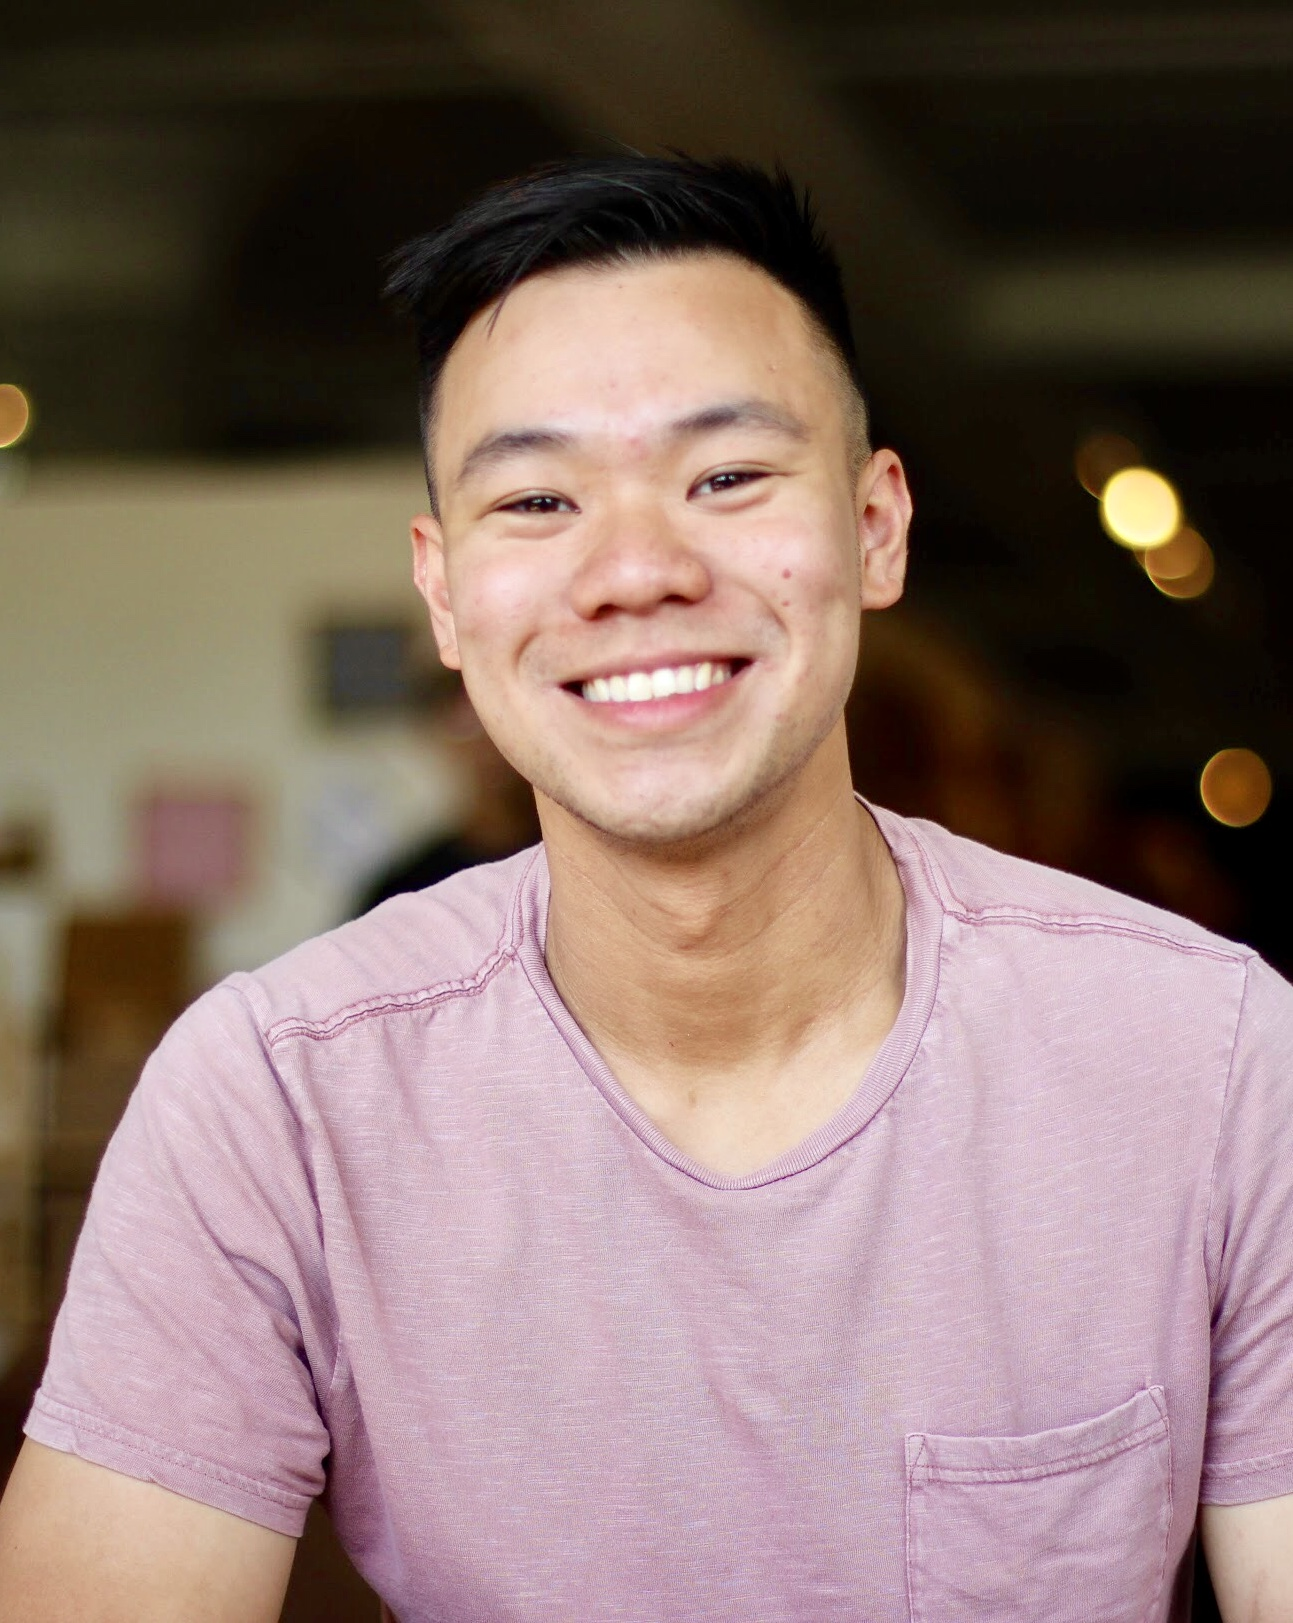
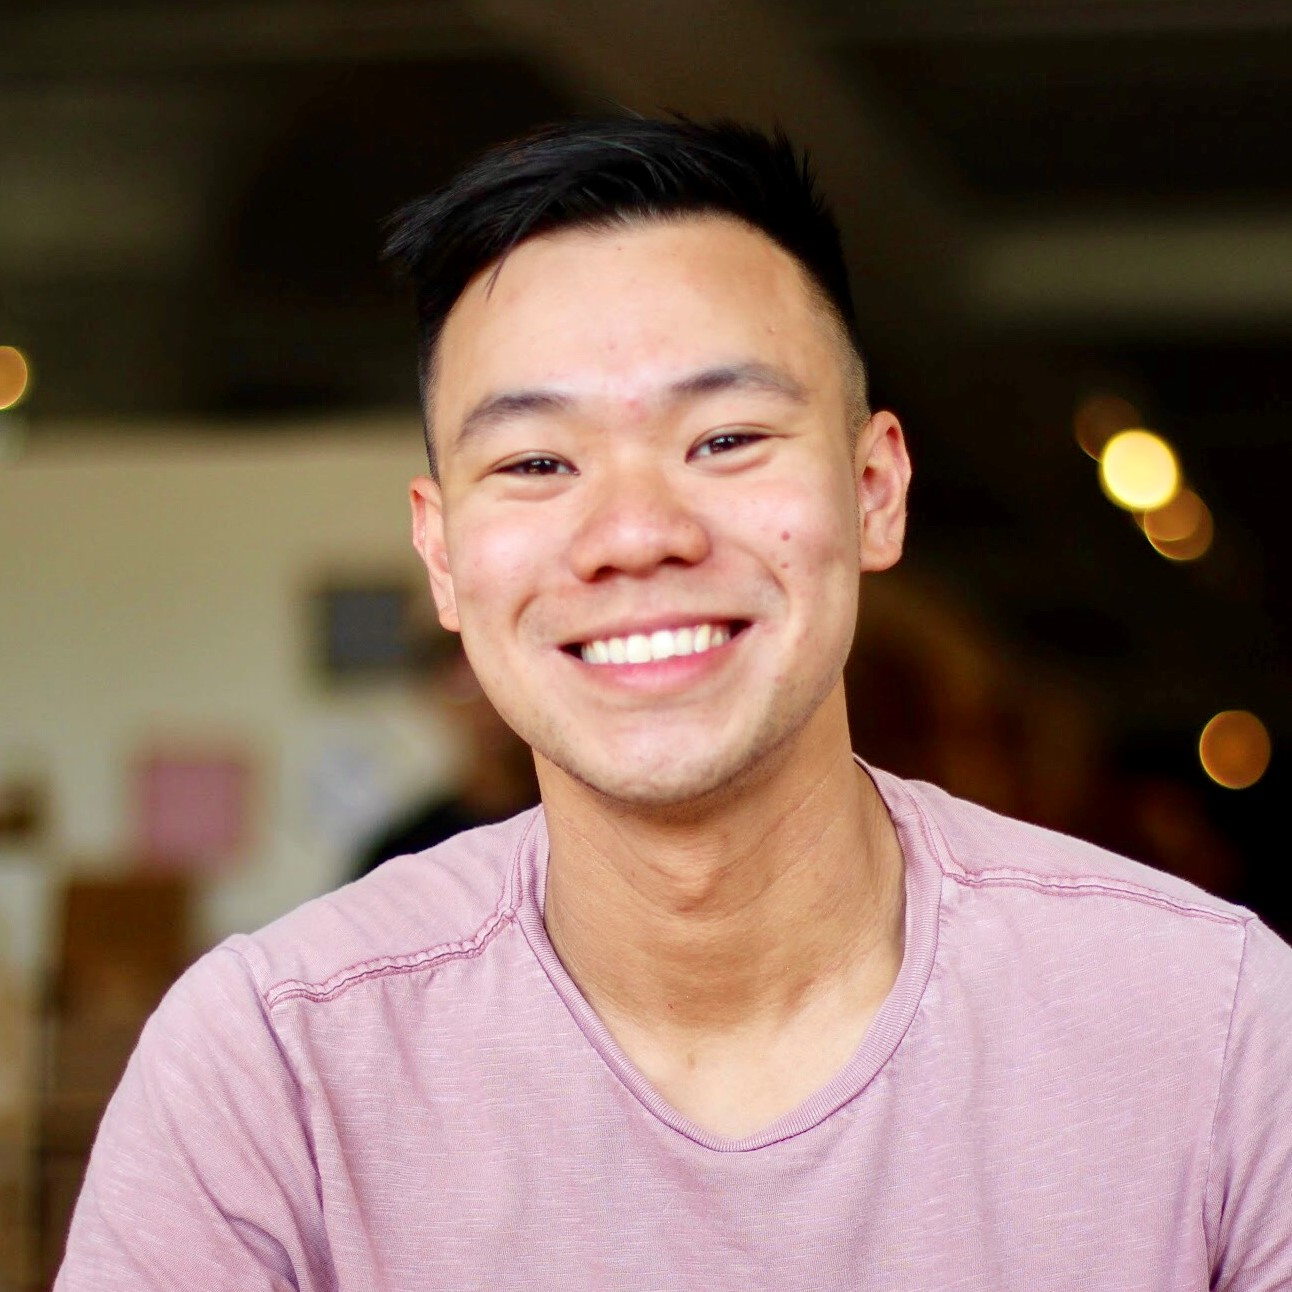
fixed bio photo
fixed bio photo

diff --git a/index.html b/index.html
@@ -73,7 +73,7 @@
           <hr id="section-line">
           <div id="aboutRow"class="row mx-md-5 mx-auto d-flex justify-content-between pt-xl-5 ">
             <div class="col-lg-2 pt-lg-3">
-              <img src="images/bio-photo.jpg" style="border-radius:50%" width="150px" height="150x">
+              <img src="images/bio-photo.jpg" style="border-radius:50%" width="175px" height="175x">
             </div>
             <p id="bio" class="col-lg-9 ml-lg-4">Ricky Diep is a recent graduate of Syracuse University with a degree in Systems and Information Science. As an IT professional, he aims to bridge the gap between technological possibilities and people. Using his prior experience in support, UX/UI design, and consulting, he aims to empower others and make technology understandable and readily accessible to all. 
             <br><br>
@@ -271,6 +271,7 @@
             </div>
         </div>
       </section>
+
     </section>
 
     
